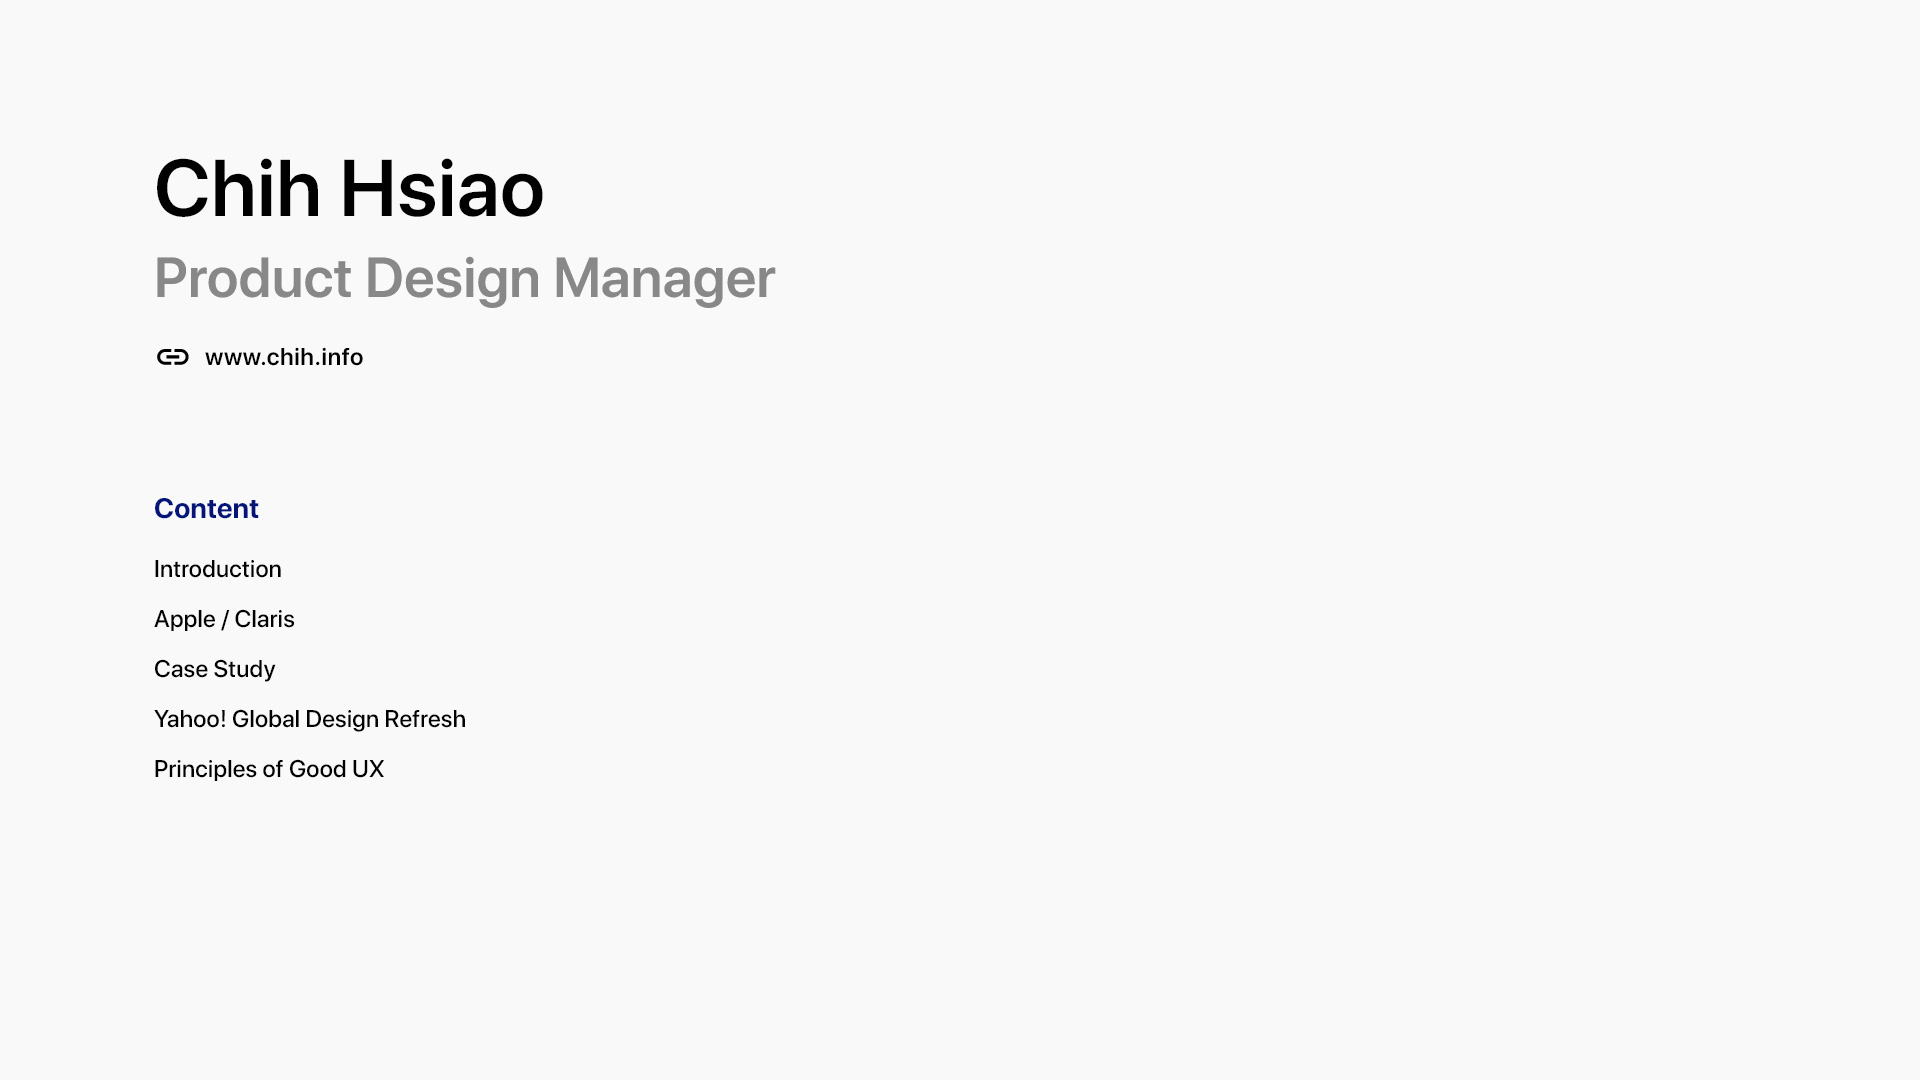
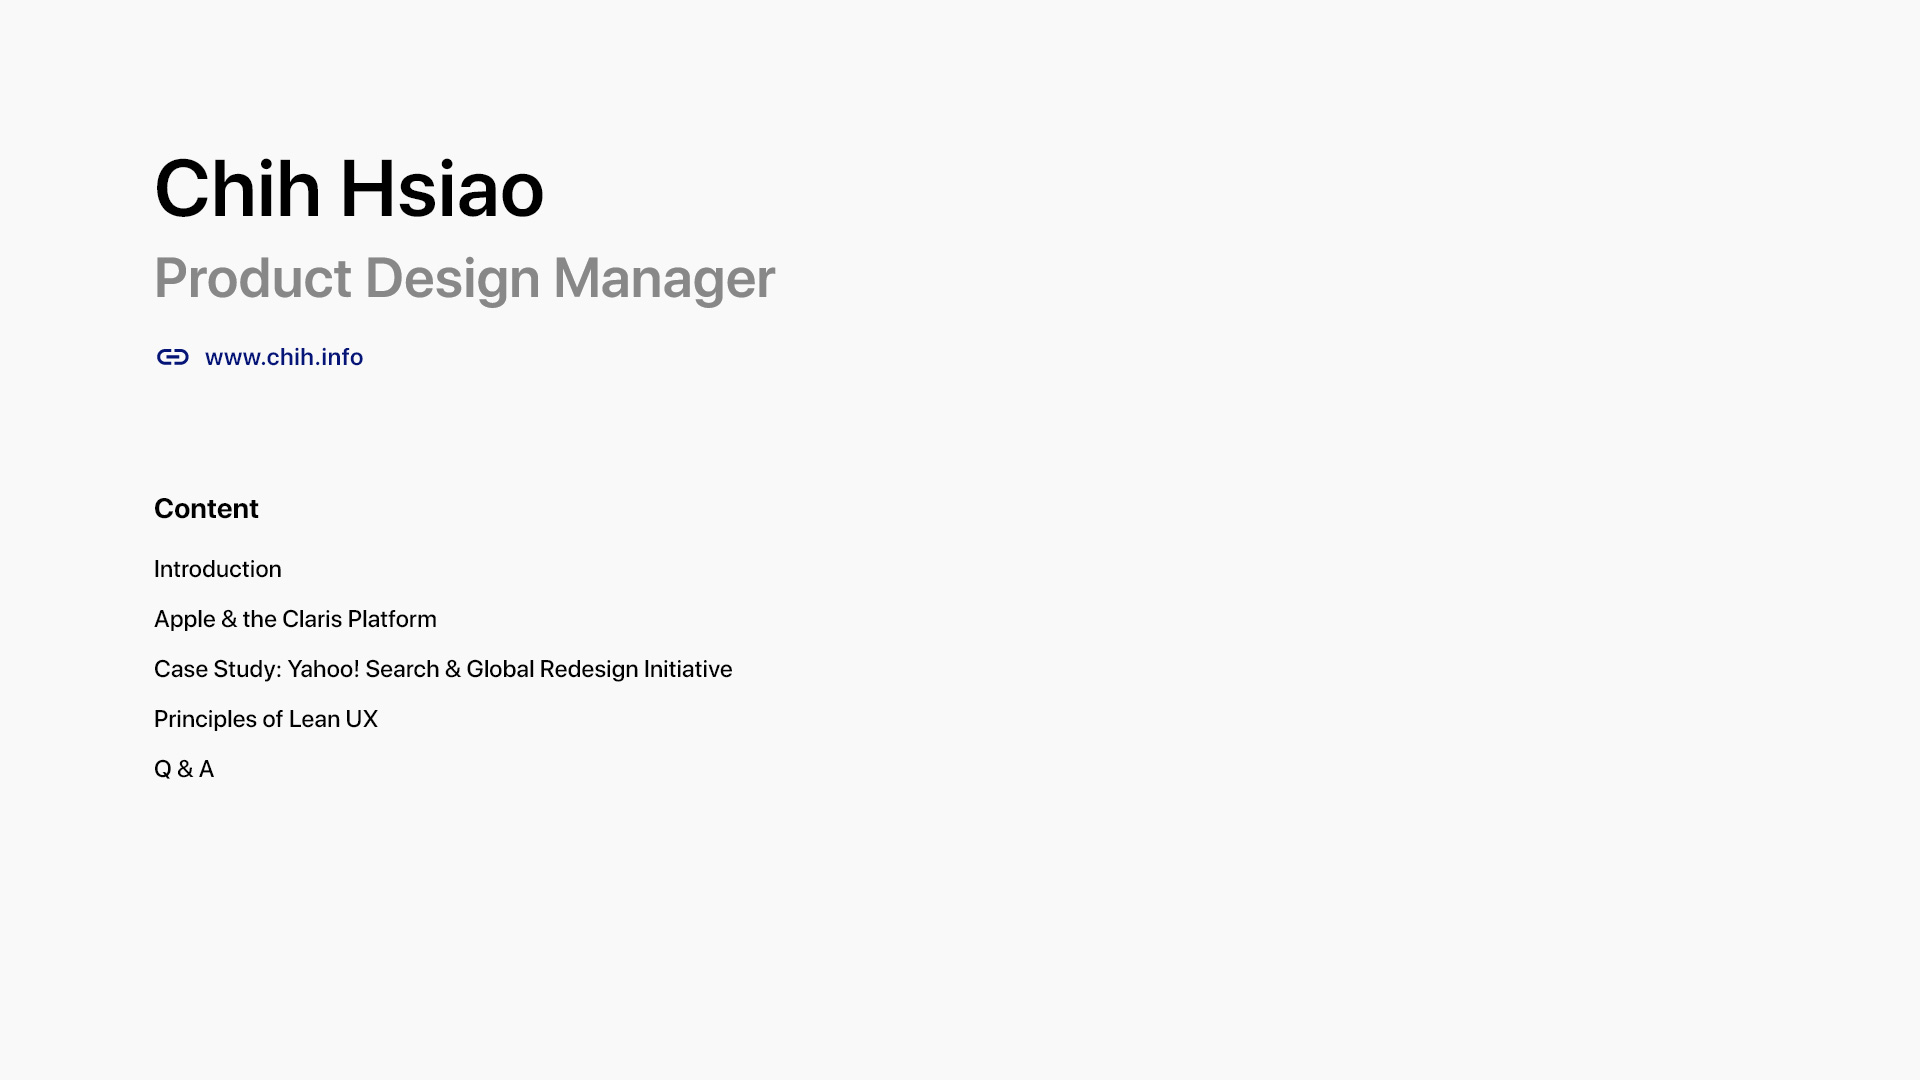
.

diff --git a/8ec4981102569463be3512984154c66c098b92c5/index.html b/8ec4981102569463be3512984154c66c098b92c5/index.html
@@ -86,7 +86,7 @@
 				<img src="../img/portfolio/portfolio_slide_06.jpg" class="slide"></a>
 				<img src="../img/portfolio/portfolio_slide_07.jpg" class="slide"></a>
 				<img src="../img/portfolio/portfolio_slide_08.jpg" class="slide"></a>
-				<h3 class="my-4">II. Apple / Claris</h3>
+				<h3 class="my-4">II. Apple & the Claris Platform</h3>
 				<img src="../img/portfolio/portfolio_slide_09.jpg" class="slide"></a>
 				<img src="../img/portfolio/portfolio_slide_10.jpg" class="slide"></a>
 				<img src="../img/portfolio/portfolio_slide_11.jpg" class="slide"></a>
@@ -99,6 +99,10 @@
 				<img src="../img/portfolio/portfolio_slide_18.jpg" class="slide"></a>
 				<img src="../img/portfolio/portfolio_slide_19.jpg" class="slide"></a>
 				<img src="../img/portfolio/portfolio_slide_20.jpg" class="slide"></a>
+
+				<h3 class="my-4">III. Yahoo! Search & Global Redesign Initiative</h3>
+				<div>Coming Shortly</div>
+
 			</div>
 		</div>
 	</div>
